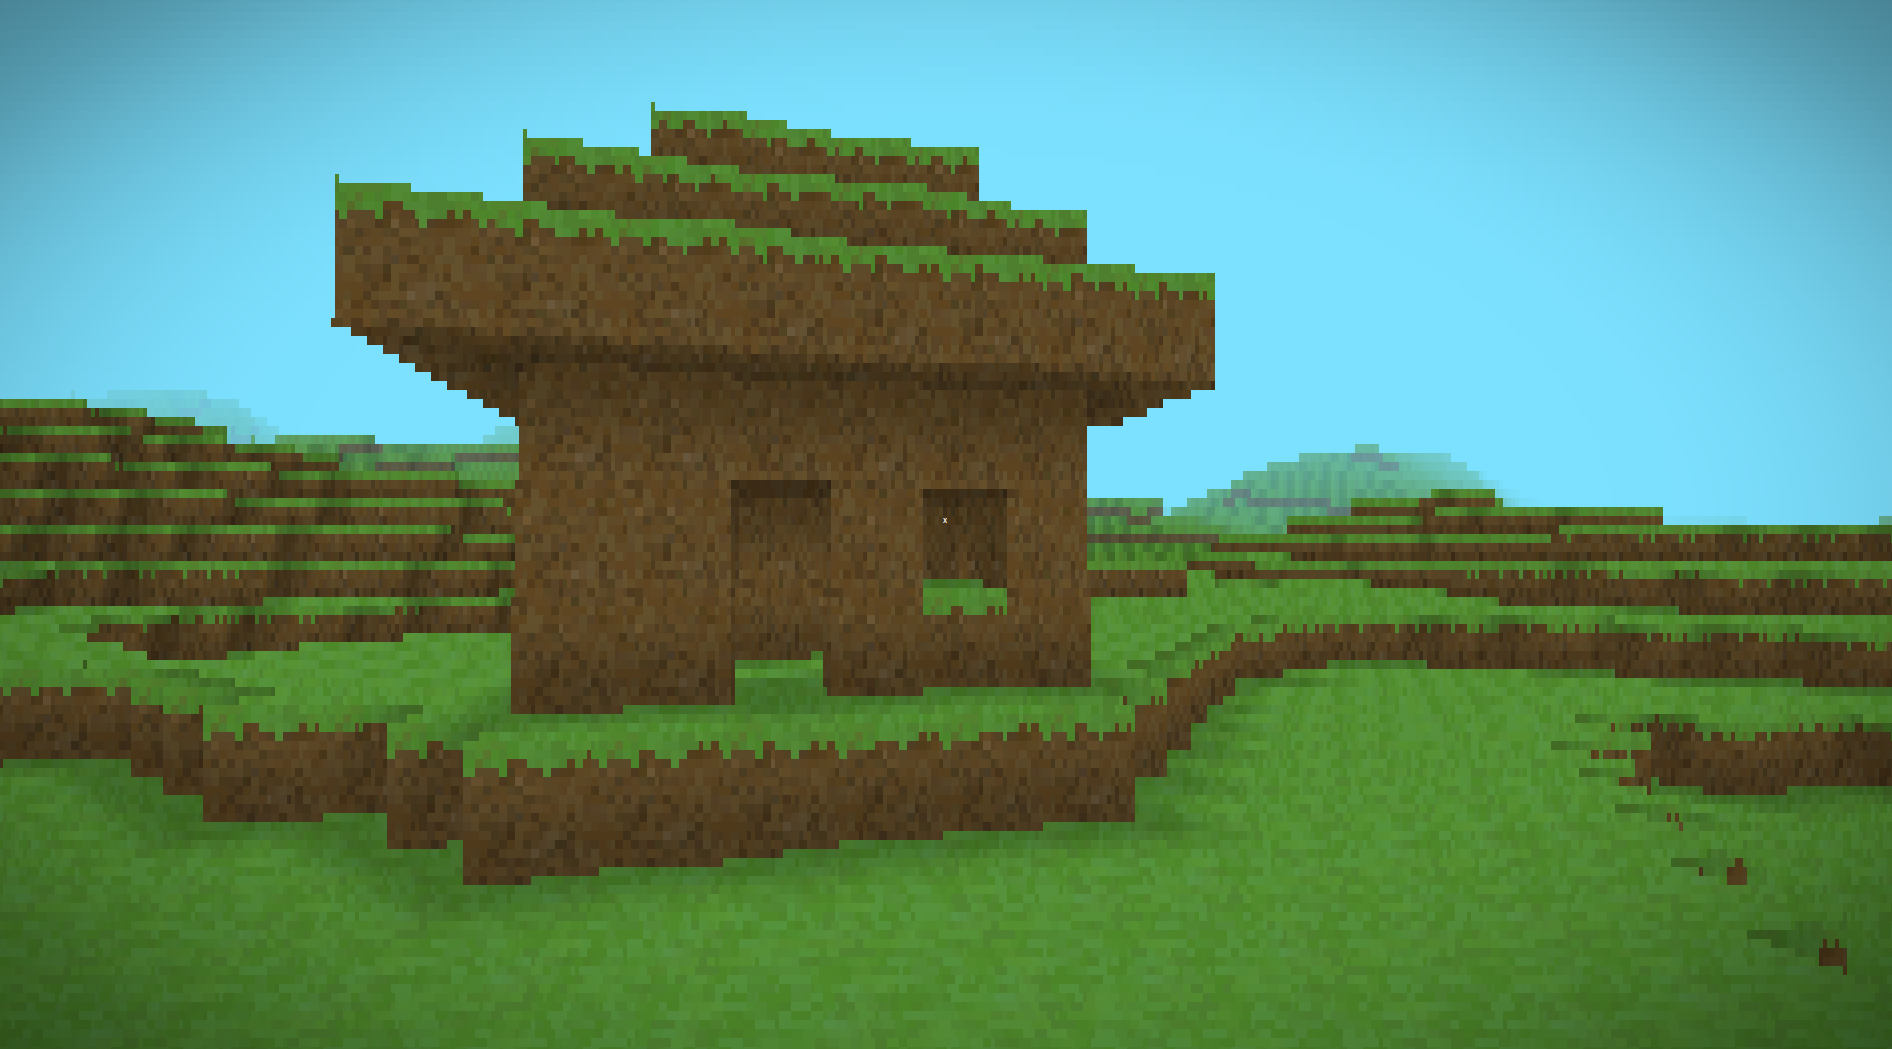
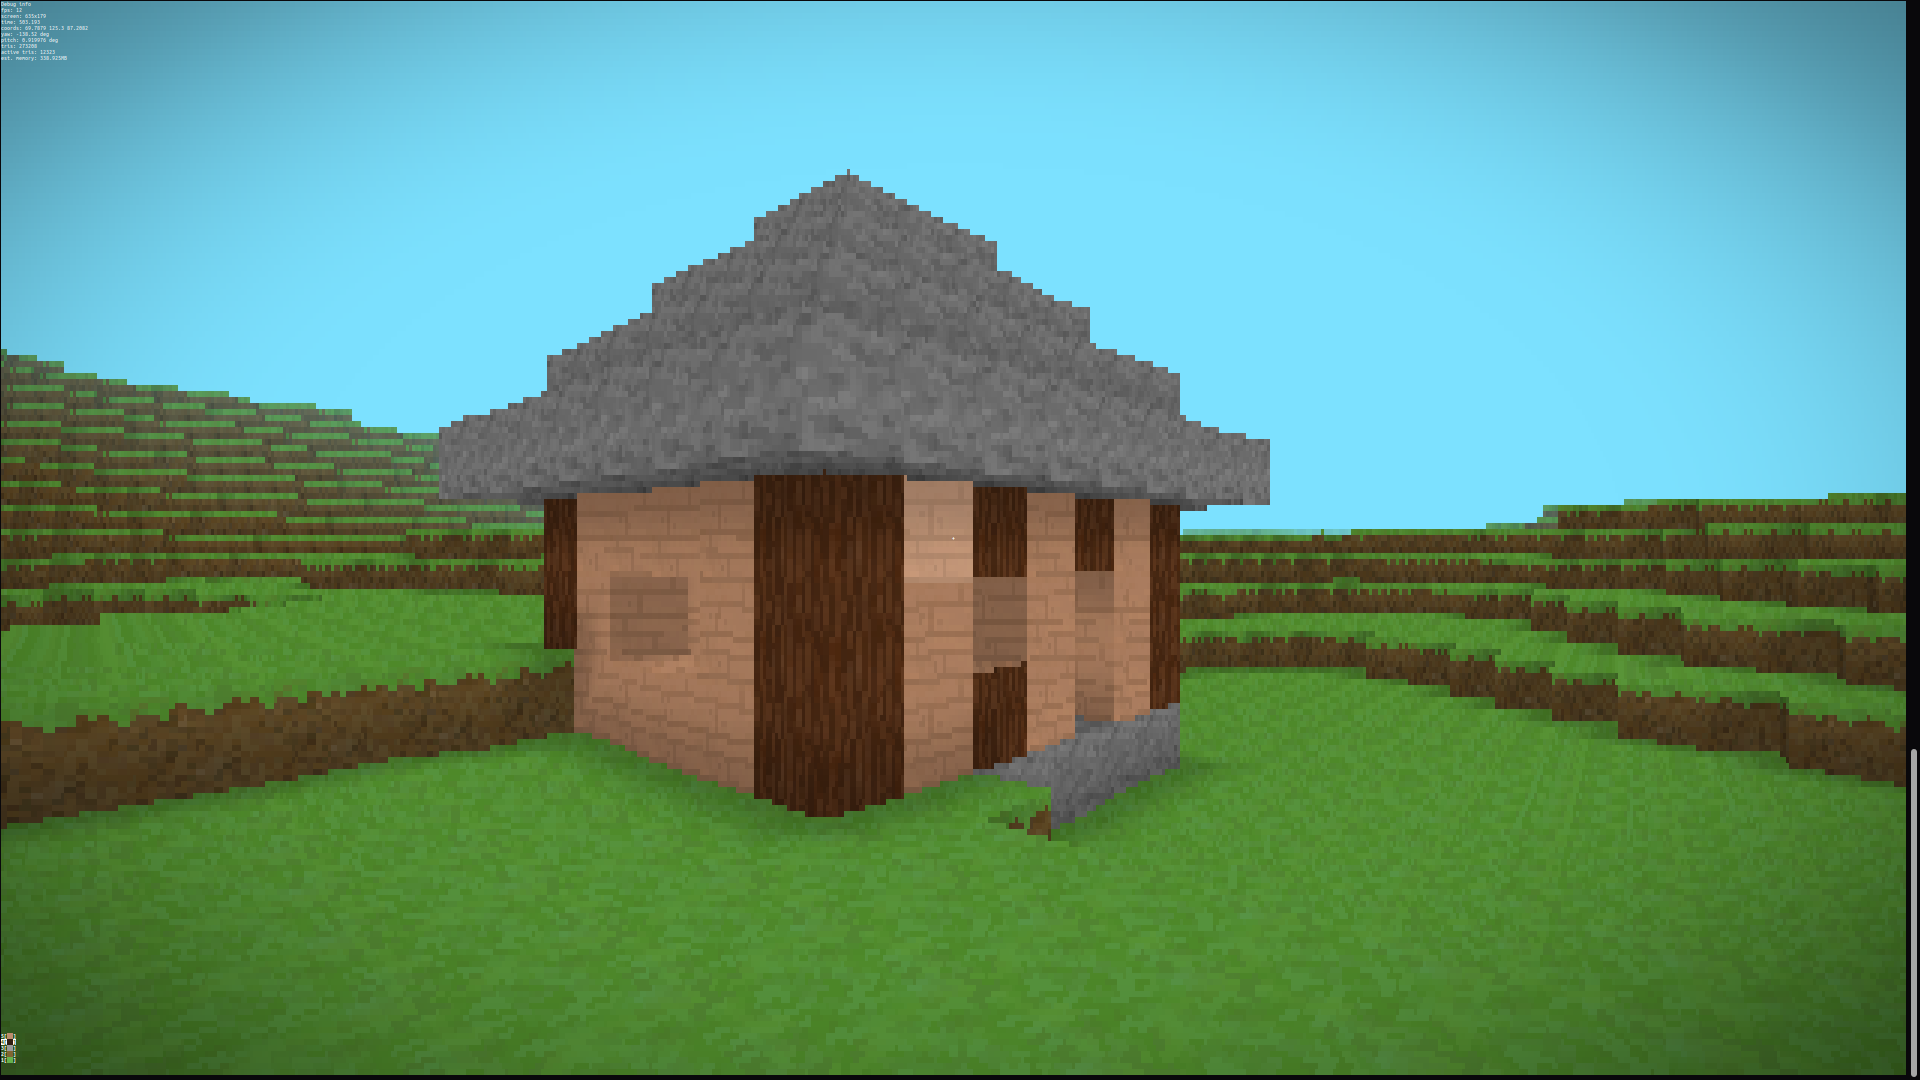
Add Oak Log and Oak Planks blocks

diff --git a/src/shaders/frag_shaders.hpp b/src/shaders/frag_shaders.hpp
@@ -11,6 +11,7 @@
 #include "../world/block.hpp"
 
 #include <cmath>
+#include <type_traits>
 
 namespace tc {
 
@@ -94,7 +95,10 @@ private:
     }
 
     static glm::vec3 face_color(fragment f) {
-        return block_type::block_color[f.triangle->block_type_index];
+        return (f.triangle->block_type_index < 0 ||
+                f.triangle->block_type_index >= std::extent<decltype(block_type::block_color)>::value) ?
+                block_type::block_color[0] :
+                block_type::block_color[f.triangle->block_type_index];
     }
 
     static bool is_face_highlighted(fragment f) {
@@ -102,7 +106,11 @@ private:
     }
 
     static glm::vec3 sample_face_texture(fragment f) {
-        return block_type::block_texture[f.triangle->block_type_index].sample(
+        const Texture_Set *tex_set = (f.triangle->block_type_index < 0 ||
+                                     f.triangle->block_type_index >= std::extent<decltype(block_type::block_texture)>::value) ?
+                                     &block_type::block_texture[0] :
+                                     &block_type::block_texture[f.triangle->block_type_index];
+        return tex_set->sample(
             interp_tex_coord(f),
             f.triangle->block_side_index
         );

diff --git a/src/world/block.hpp b/src/world/block.hpp
@@ -15,18 +15,24 @@ namespace block_type {
         GRASS,
         DIRT,
         STONE,
+        OAK_LOG,
+        OAK_PLANKS,
     };
     const glm::vec3 block_color[] = {
         glm::vec3 {0.0f}, // EMPTY
-        glm::vec3 {0.4f, 0.7f, 0.3f}, // GRASS
-        glm::vec3 {0.5f, 0.4f, 0.2f}, // DIRT
-        glm::vec3 {0.6f, 0.6f, 0.6f}, // STONE
+        glm::vec3 {0.40f, 0.70f, 0.30f}, // GRASS
+        glm::vec3 {0.50f, 0.40f, 0.20f}, // DIRT
+        glm::vec3 {0.60f, 0.60f, 0.60f}, // STONE
+        glm::vec3 {0.19f, 0.12f, 0.07f}, // OAK_LOG
+        glm::vec3 {0.74f, 0.55f, 0.43f}, // OAK_PLANKS
     };
     const Texture_Set block_texture[] {
         {"../res/tex/test.png"}, // EMPTY
         {"../res/tex/grass_side.png", "../res/tex/grass_top.png", "../res/tex/dirt.png"}, // GRASS
         {"../res/tex/dirt.png"}, // DIRT
         {"../res/tex/stone.png"}, // STONE
+        {"../res/tex/oak_log_side.png", "../res/tex/oak_log_top.png"}, // OAK_LOG
+        {"../res/tex/oak_planks.png"}, // OAK_PLANKS
     };
 } /* end of namespace block_type */
 

diff --git a/src/controller/controller.cpp b/src/controller/controller.cpp
@@ -170,9 +170,9 @@ void Controller::evaluate_inputs(float delta_time) {
     if (input_state.get_key('3'))
         active_block_type = block_type::STONE;
     if (input_state.get_key('4'))
-        active_block_type = block_type::EMPTY;
+        active_block_type = block_type::OAK_LOG;
     if (input_state.get_key('5'))
-        active_block_type = block_type::EMPTY;
+        active_block_type = block_type::OAK_PLANKS;
     if (input_state.get_key('6'))
         active_block_type = block_type::EMPTY;
     if (input_state.get_key('7'))

diff --git a/src/render/texture.hpp b/src/render/texture.hpp
@@ -29,6 +29,8 @@ public:
         if (!data) {
             pixels.emplace_back();
             pixels[0].emplace_back(1.0f, 0.0f, 1.0f);
+            size = {1, 1};
+            real_channels = 0;
             return;
         }
 

diff --git a/doc/TODO.md b/doc/TODO.md
@@ -2,12 +2,12 @@
 Todo list, from *urgent* to *would be nice*. Mark done tasks with ~~strikethrough~~
 and work in progress tasks with **bold**.
 
-- **Active block type selection and more blocks**
 - Use an input library for simultaneous key press support
 - ASCII mode
 - Better world generation
 - Add tree generation
 - Transparency
+- Flowers / tall grass
 - Add water
 - Add cave generation
 - Add walk controller
@@ -15,6 +15,7 @@ and work in progress tasks with **bold**.
 - Day-night cycle
 - Menu / gui and world saving / loading
 - Fix triangle overlap / gap issue
+- ~~Active block type selection and more blocks~~
 - ~~Add directional textures~~
 - ~~Make block meshing less manual and just generally less cringe~~
 - ~~Use better voxel grid traversal algorithm~~
